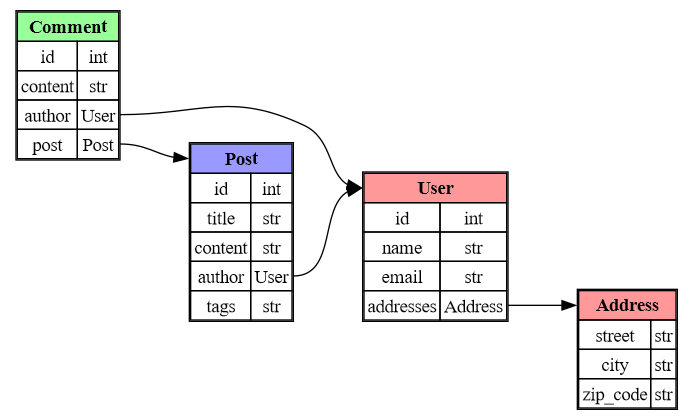
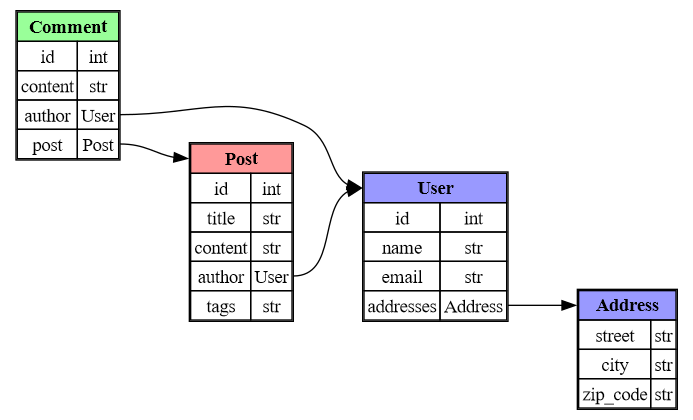
improve imported classes

Changed region(s): [[0.5152, 0.4024, 0.7273, 0.4952], [0.8182, 0.681, 1.0, 0.7738], [0.2727, 0.3405, 0.4242, 0.4333]]

diff --git a/extract_schemas.py b/extract_schemas.py
@@ -1,10 +1,15 @@
 import importlib
 import inspect
-import re
 import sys
-from typing import Dict, List, Set
-
 import pygraphviz as pgv
+import re
+import dataclasses
+from typing import List, Dict
+# Import Pydantic if available
+try:
+    import pydantic
+except ImportError:
+    pydantic = None
 
 # Define built-in types to exclude
 BUILTIN_TYPES = set(sys.builtin_module_names) | {
@@ -39,37 +44,61 @@ def build_class_map(module_names: List[str]) -> Dict[str, Dict]:
             return
         visited_classes.add(class_name)
         fields = {}
-        annotations = getattr(cls, '__annotations__', {})
-        for field_name, field_type in annotations.items():
-            base_type = get_base_type(field_type)
-            fields[field_name] = base_type
+        try:
+            if pydantic and issubclass(cls, pydantic.BaseModel):
+                # Pydantic model
+                annotations = cls.__annotations__
+                for field_name, field_type in annotations.items():
+                    base_type = get_base_type(field_type)
+                    fields[field_name] = base_type
+            elif dataclasses.is_dataclass(cls):
+                # Dataclass
+                for field in dataclasses.fields(cls):
+                    field_name = field.name
+                    field_type = field.type
+                    base_type = get_base_type(field_type)
+                    fields[field_name] = base_type
+            else:
+                # Regular class - extract public attributes
+                attributes = [attr for attr in cls.__dict__ if not callable(getattr(cls, attr)) and not attr.startswith('_')]
+                for attr in attributes:
+                    try:
+                        value = getattr(cls, attr)
+                        base_type = type(value).__name__
+                        fields[attr] = base_type
+                    except Exception:
+                        pass
+        except Exception as e:
+            print(f"Error processing class {class_name}: {e}")
+
         class_map[class_name] = {
             'fields': fields,
             'module': cls.__module__,
             'local': cls.__module__ in module_names
         }
+
         # Recursively process field types
         for base_type_name in fields.values():
             if base_type_name not in visited_classes and base_type_name not in BUILTIN_TYPES:
                 try:
-                    # Try to import the class
-                    base_cls = getattr(sys.modules.get(cls.__module__), base_type_name, None)
-                    if base_cls is None:
-                        base_cls = getattr(sys.modules.get('__main__'), base_type_name, None)
-                    if base_cls is None:
-                        base_cls = getattr(sys.modules.get(base_type_name), base_type_name, None)
-                    if base_cls is None:
-                        base_cls = getattr(importlib.import_module(base_type_name), base_type_name)
-                    process_class(base_cls)
-                except Exception:
-                    # If the class cannot be imported, add as external
+                    base_cls = None
+                    if base_type_name in sys.modules:
+                        base_cls = sys.modules[base_type_name]
+                    else:
+                        base_cls = getattr(sys.modules.get(cls.__module__), base_type_name, None)
+                        if base_cls is None:
+                            base_cls = getattr(importlib.import_module(base_type_name), base_type_name)
+                    if base_cls:
+                        process_class(base_cls)
+                except Exception as e:
+                    print(f"Error importing class {base_type_name}: {e}")
                     if base_type_name not in class_map:
                         class_map[base_type_name] = {
                             'fields': {},
                             'module': None,
                             'local': False
                         }
-    
+
     # Import the specified modules and process their classes
     for module_name in module_names:
         try:
@@ -99,11 +128,11 @@ def visualize_schemas(class_map: Dict[str, Dict]):
     for class_name, class_info in class_map.items():
         sanitized_class_name = sanitize_name(class_name)
         fields = class_info['fields']
-        local = class_info.get('local', False)
         module = class_info.get('module')
-        if local:
-            color = module_colors.get(module, "#CCCCCC")
-            # Create a label for the node
+        color = module_colors.get(module, "#CCCCCC")
+
+        if fields:
+            # Create a label for the node with fields
             label = f"""<<TABLE BORDER="1" CELLBORDER="1" CELLSPACING="0">
             <TR><TD PORT="class_header" BGCOLOR="{color}" COLSPAN="2"><B>{class_name}</B></TD></TR>"""
             for field_name, field_type in fields.items():
@@ -115,7 +144,7 @@ def visualize_schemas(class_map: Dict[str, Dict]):
             label += "</TABLE>>"
             G.add_node(sanitized_class_name, shape='plaintext', label=label)
         else:
-            # Create a placeholder node for external classes
+            # Create a placeholder node
             G.add_node(sanitized_class_name, shape='box', style='dashed', label=class_name)
         print(f"Added node: {sanitized_class_name}")
 
@@ -128,22 +157,14 @@ def visualize_schemas(class_map: Dict[str, Dict]):
                 sanitized_base_type = sanitize_name(base_type_name)
                 sanitized_field_name = sanitize_name(field_name)
                 if sanitized_base_type in G.nodes():
-                    # Use tailport and headport if source node is local and has ports
-                    if class_info.get('local', False):
-                        G.add_edge(
-                            sanitized_class_name,
-                            sanitized_base_type,
-                            tailport=f"{sanitized_field_name}_type",
-                            headport="class_header",
-                            arrowhead='normal'
-                        )
-                    else:
-                        # Source node is external
-                        G.add_edge(
-                            sanitized_class_name,
-                            sanitized_base_type,
-                            arrowhead='normal'
-                        )
+                    # Use tailport and headport
+                    G.add_edge(
+                        sanitized_class_name,
+                        sanitized_base_type,
+                        tailport=f"{sanitized_field_name}_type",
+                        headport="class_header",
+                        arrowhead='normal'
+                    )
                     print(f"Adding edge from '{sanitized_class_name}:{sanitized_field_name}_type' to '{sanitized_base_type}'")
                 else:
                     print(f"Warning: Node '{sanitized_base_type}' does not exist in the graph.")
@@ -163,10 +184,9 @@ def visualize_schemas(class_map: Dict[str, Dict]):
 
 def main():
     # Specify the modules you want to include
-    # For example, if your local modules are 'myapp.models' and 'myapp.schemas'
-    module_names = ['schemas.user', 'schemas.post', 'schemas.comment']
-    # Add any third-party modules you want to include
-    #module_names += ['third_party_package']
+    module_names = [
+        'schemas.comment',  # Replace with your local module names
+    ]
 
     class_map = build_class_map(module_names)
     visualize_schemas(class_map)
